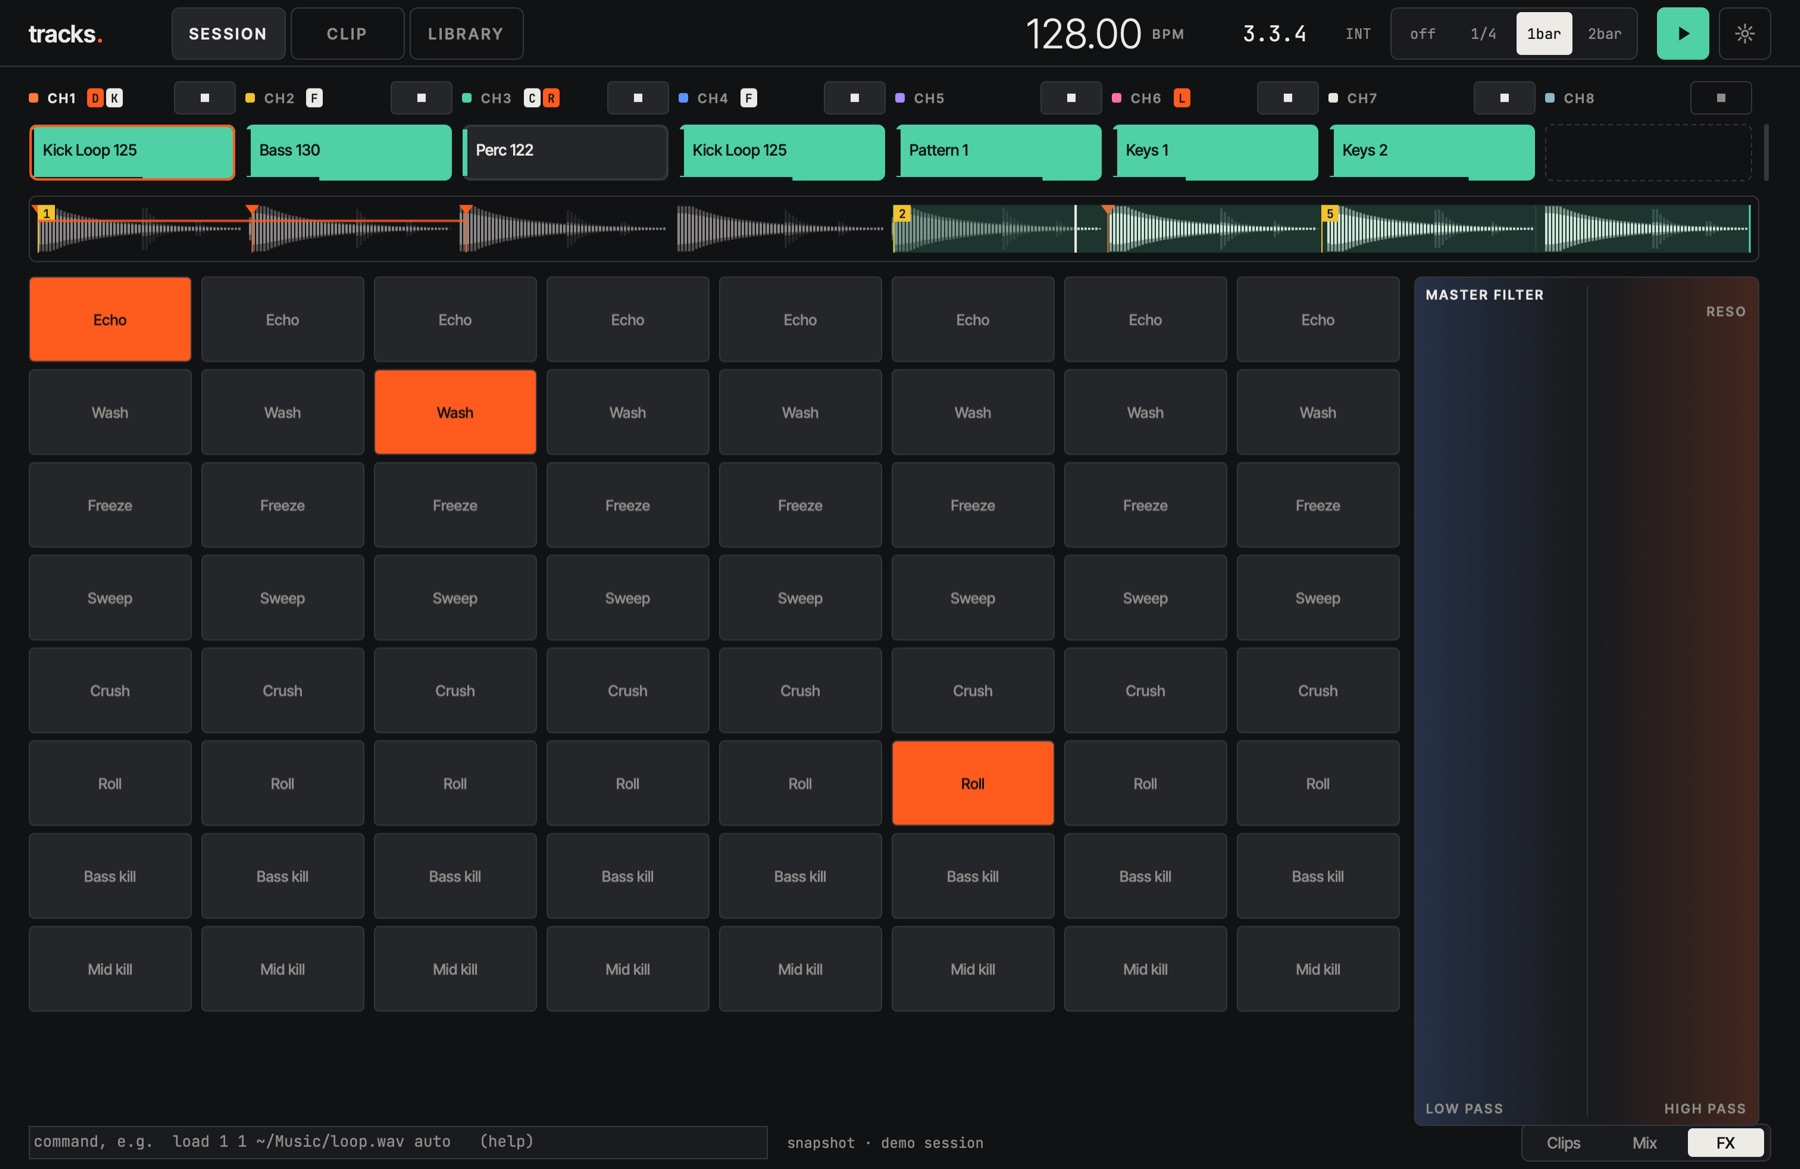
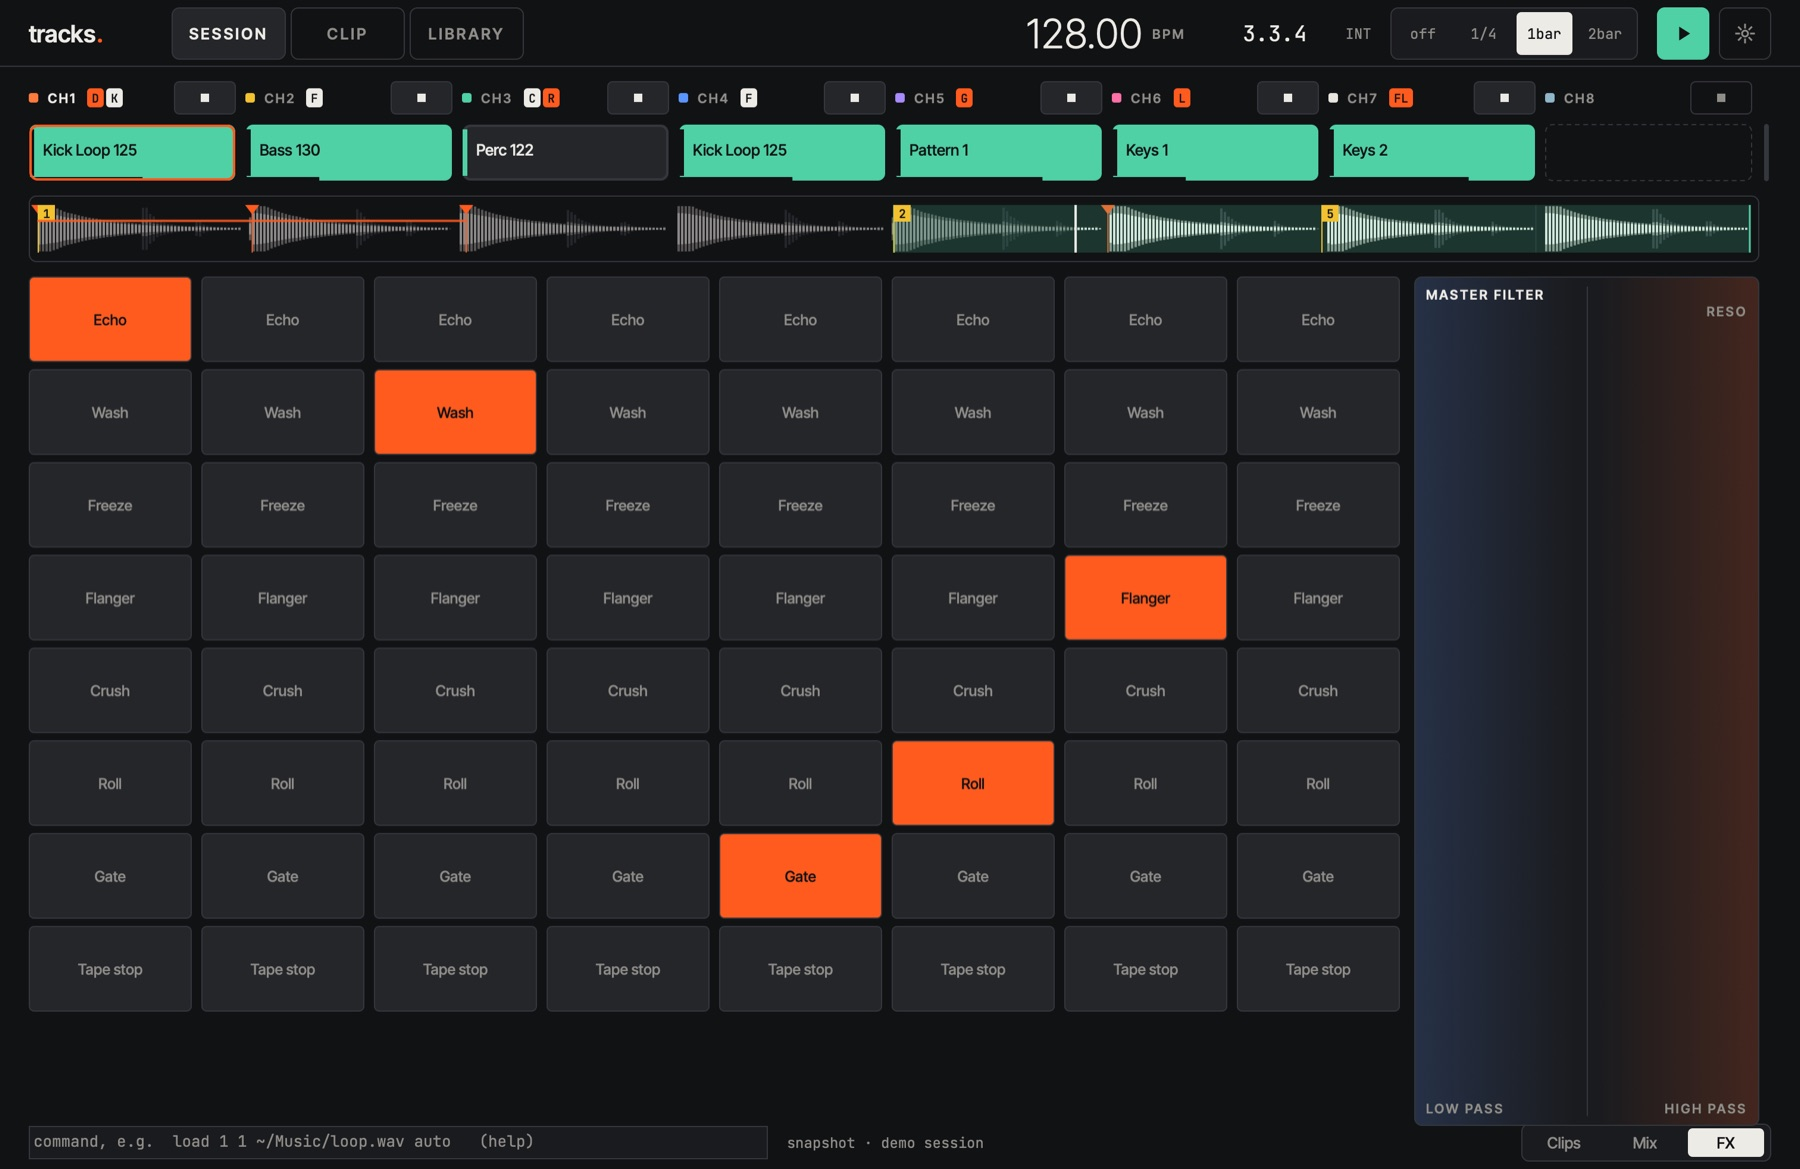
Effekte: Flanger, Gate und Tape Stop statt Sweep und Kills, neuer FX-Screenshot
Claude-Session: https://claude.ai/code/session_0193od1SPRnPDCfJhgAYdpbW

diff --git a/index.html b/index.html
@@ -136,22 +136,22 @@ footer p{max-width:none}
 <div class="split" style="align-items:center">
 <div class="text">
 <h2>Effects you hold, not set</h2>
-<p>Hold a pad and the channel goes into an echo, a wash of reverb or a roll. Let go and everything is back where it was. The same effects sit on the touchscreen, on the Push pads and on the K2's keys, so one hand can end a track in an echo while the other starts the next one.</p>
+<p>Hold a pad and the channel goes into an echo, a gate or a tape stop. Let go and everything is back where it was. The same effects sit on the touchscreen, on the Push pads and on the K2's keys, so one hand can end a track in an echo while the other starts the next one.</p>
 <div class="views" aria-hidden="true"><span>Clips</span><span>Mix</span><span class="on">FX</span></div>
 <p class="dim">Clips shows the whole grid; Mix shows the eight strips with EQ, sends and a master column; FX shows the pads. The channel headers mark which effects are on, so you can see what the hardware is doing.</p>
 </div>
-<figure style="margin:0"><div class="shot"><img src="img/session-fx.jpg" width="1800" height="1169" loading="lazy" alt="The FX view: eight columns of effect pads, three of them held, and an XY field for the master filter."></div>
+<figure style="margin:0"><div class="shot"><img src="img/session-fx.jpg" width="1800" height="1169" loading="lazy" alt="The FX view: eight columns of effect pads, five of them held, and an XY field for the master filter."></div>
 <figcaption class="cap">FX view: hold to play, double-tap to latch, and an XY field for the master filter.</figcaption></figure>
 </div>
 <div class="fx">
 <div class="held"><b>Echo</b><span>delay send up, longer feedback</span></div>
 <div><b>Wash</b><span>reverb send up, low end out of the tail</span></div>
 <div><b>Freeze</b><span>catches one round, then loops it</span></div>
-<div><b>Sweep</b><span>DJ filter with resonance</span></div>
+<div class="held"><b>Flanger</b><span>jet sweep locked to the bar</span></div>
 <div><b>Crush</b><span>bits and rate down</span></div>
 <div class="held"><b>Roll</b><span>a 1/4, 1/8 or 1/16 loop on the beat</span></div>
-<div><b>Bass kill</b><span>the low band out</span></div>
-<div><b>Mid kill</b><span>both mids out</span></div>
+<div class="held"><b>Gate</b><span>chops in 1/8, 1/16 or 1/32, on the grid</span></div>
+<div><b>Tape stop</b><span>brakes to a halt, let go and it is back on the beat</span></div>
 </div>
 <figure style="margin:28px 0 0"><div class="shot"><img src="img/session-mix.jpg" width="1800" height="1169" loading="lazy" alt="The mix view: eight channel strips with four-band EQ, cuts, delay and reverb sends, crush, filter and faders, and a master column."></div>
 <figcaption class="cap">Mix view: four-band EQ with kills, low and high cut, sends to the ping-pong delay and the plate reverb, and the master.</figcaption></figure>
